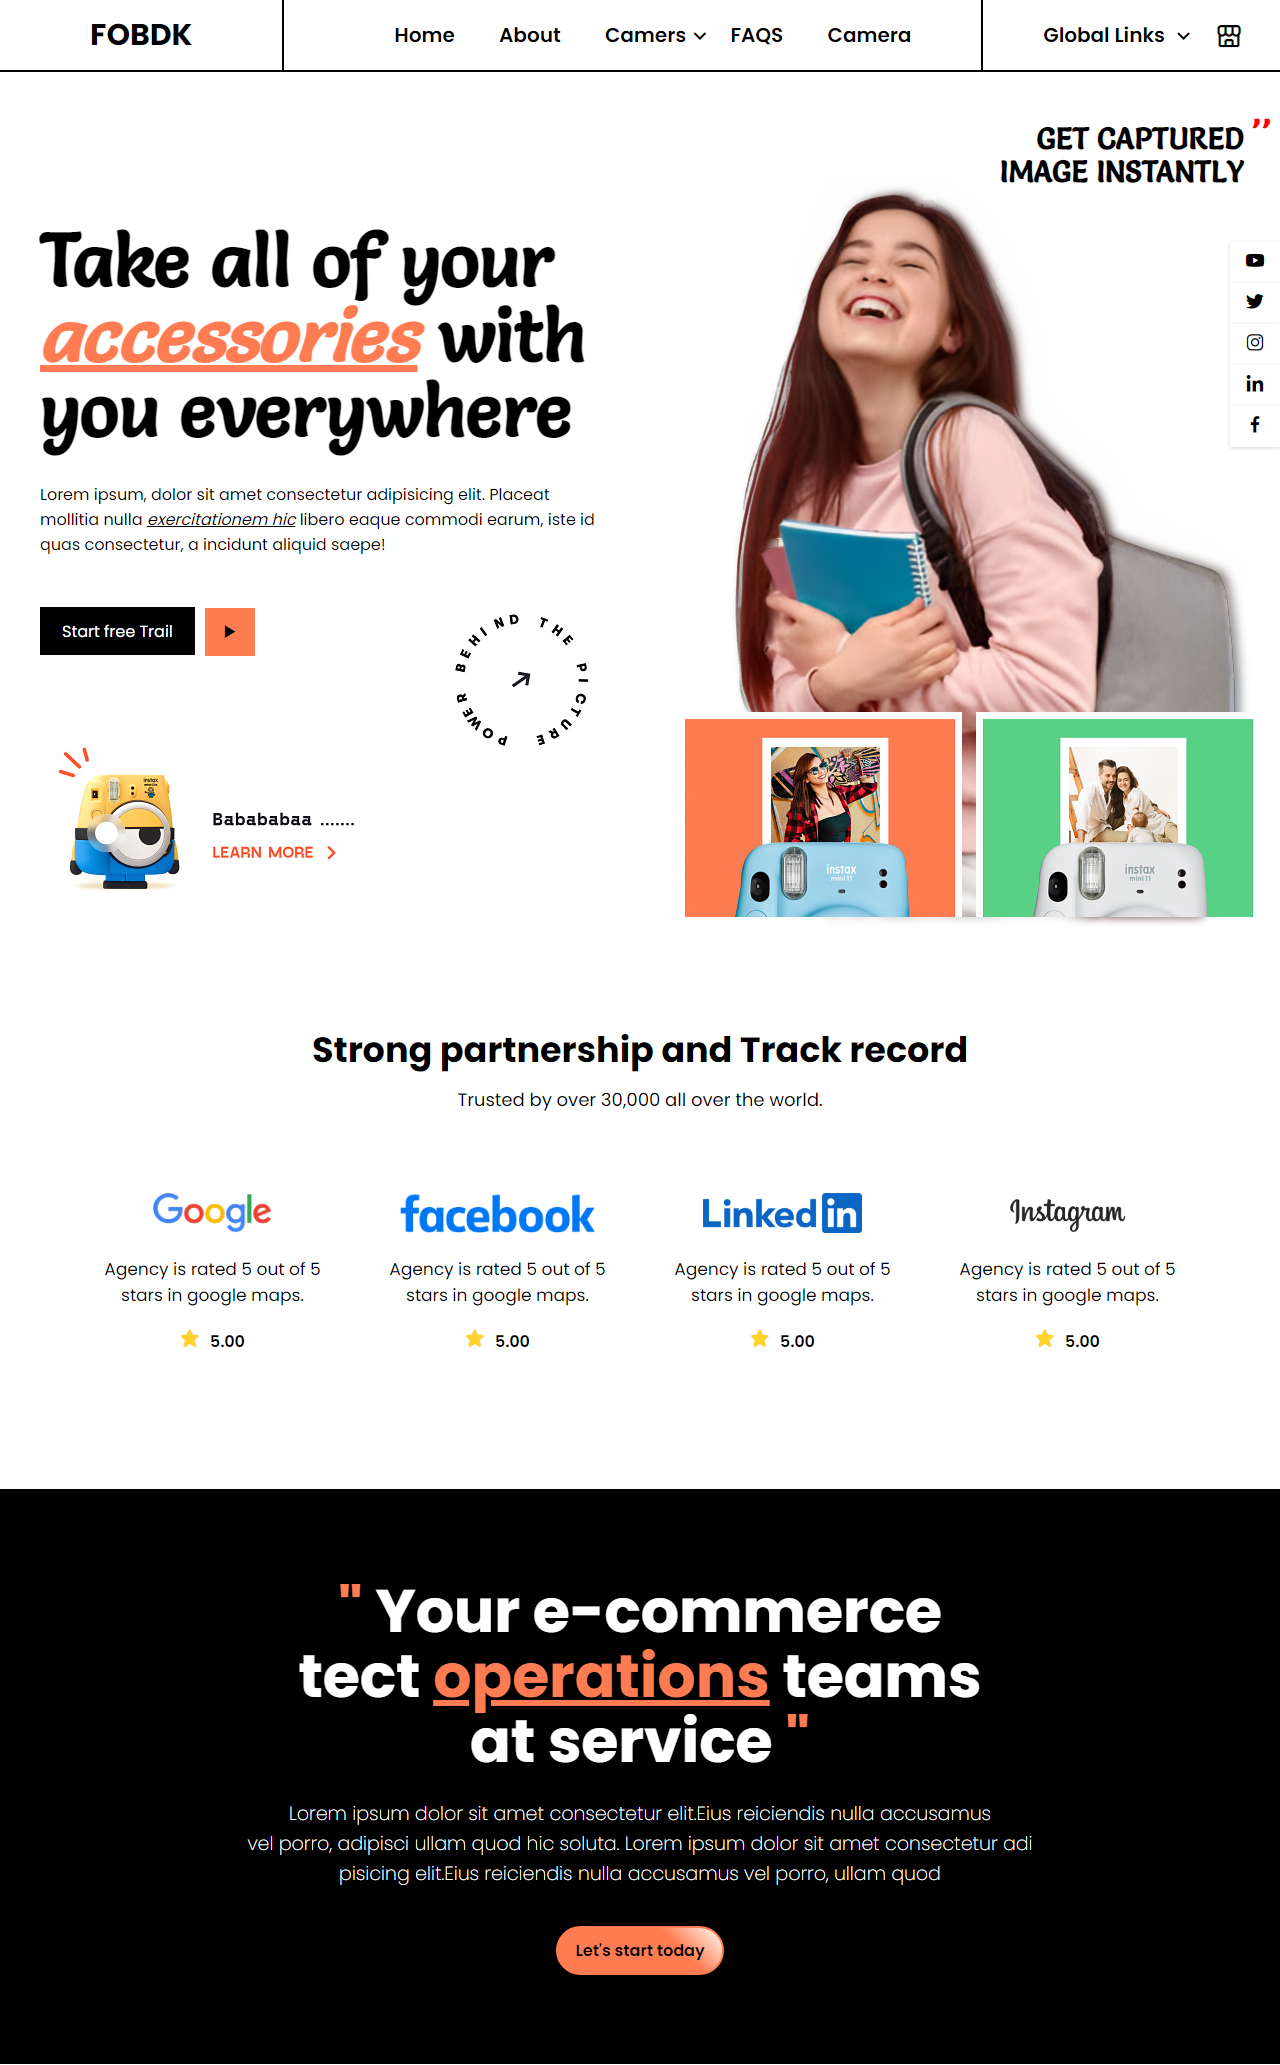
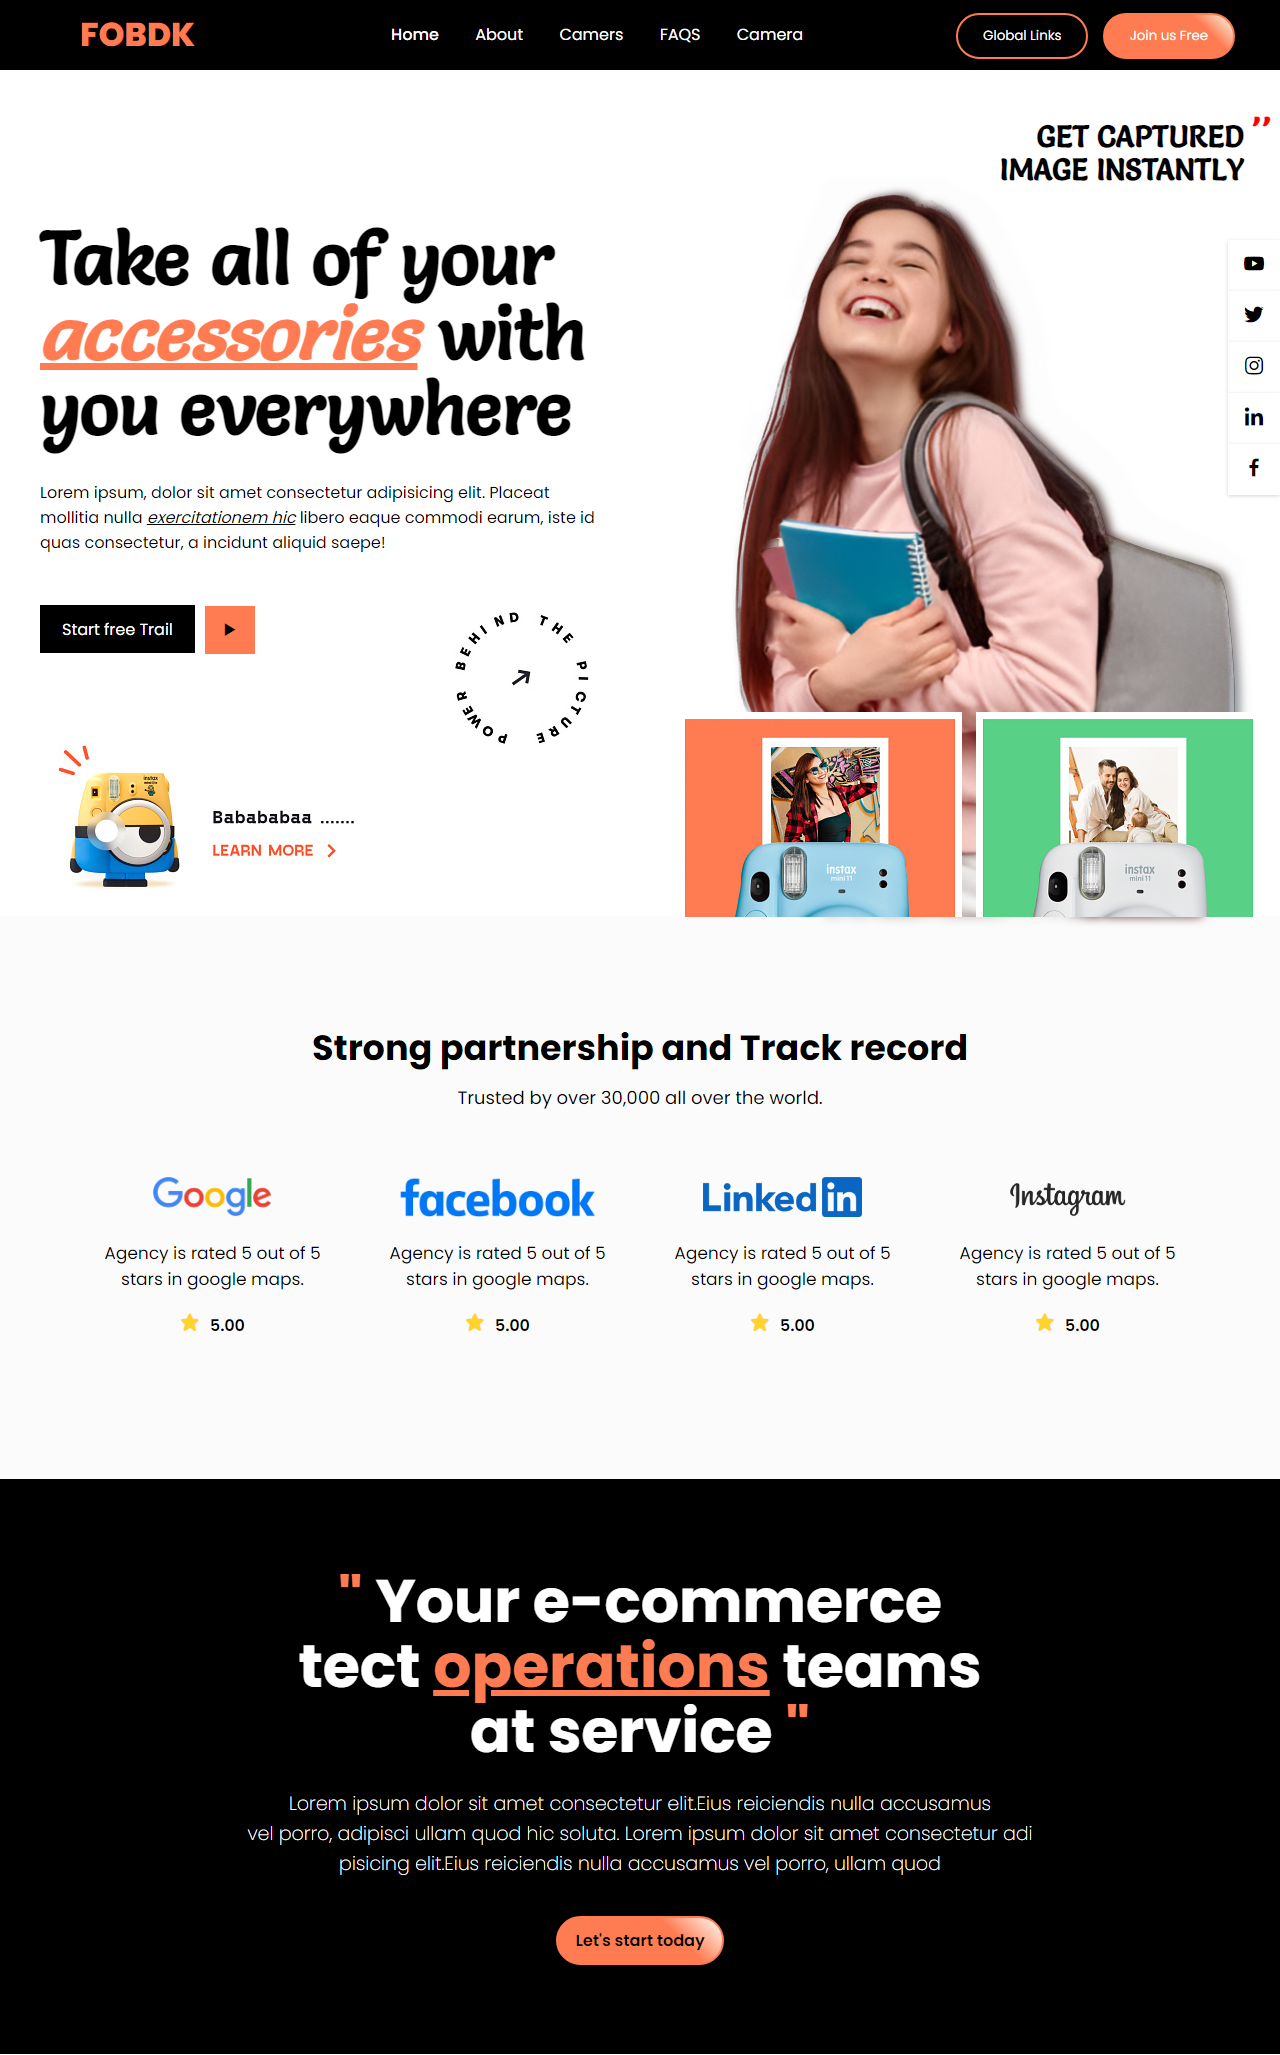
Add files via upload

diff --git a/style.css b/style.css
@@ -12,58 +12,56 @@ header {
     display: flex;
     height: 70px;
     line-height: 70px;
-    border-bottom: 2px solid black;
     justify-content: space-between;
+    background-color: black;
+    padding: 0 40px;
+    z-index: 99;
 }
-header .left {
-    border-right: 2px solid black;
+header label a {
+    font-weight: 800;
+    font-size: 33px;
+    color: #FF7C52;
+    margin-left: 40px;
 }
-header .left label {
-    padding: 0 60px;
-}
-header .left label a {
-    font-size: 35px;
-    font-weight: 700;
-    margin: 0 30px;
-    font-size: 30px;
+header ul{
+    margin: 0 335px;
+    position: absolute;
 }
 header ul li {
     display: inline-block;
-    margin-left: 40px;
+    margin: 0 16px;
 }
 header ul li a {
-    font-size: 20px;
-    font-weight: 600;
+    color: white;
 }
-header ul li a span {
-    position: absolute;
-    line-height: 80px;
+header ul li a:hover {
+    color: #FF7C52;
+    text-decoration: underline;
 }
-header ul li a span i {
-    font-size: 27px;
+header ul li:nth-child(1) a {
+    font-weight: 500;
 }
-header .right {
-    padding: 0 60px;
-    border-left: 2px solid black;
-    margin-right: 30px;
+header .right button {
+    padding: 11px 25px;
+    border-radius: 30px;
+    color: white;
+    cursor: pointer;
+    border: 2px solid #FF7C52;
+    background-color: #FF7C52;
+    background-image: linear-gradient(45deg, #FF7C52 76%, #f6ffeb 100%);
+    margin: 0 5px;
 }
-header .right a {
-    font-weight: 600;
-    font-size: 20px;
-    margin-right: 25px;
+header .right button:nth-child(1){
+    background-color: transparent;
+    background-image: none;
 }
-
-header .right a span i {
-    position: absolute;
-    line-height: 72px;
-    margin-left: 5px;
-    font-size: 27px;
+header .right button:nth-child(1):hover{
+    background-color: #FF7C52;
+    background-image: linear-gradient(45deg, #FF7C52 76%, #f6ffeb 100%);
 }
-header .right span.right_icon i {
-    margin: 0 25px;
-    line-height: 75px;
-    position: absolute;
-    font-size: 28px;
+header .right button:hover{
+    background-color: transparent;
+    background-image: none;
 }
 /* Home */
 .home {
@@ -197,7 +195,6 @@ header .right span.right_icon i {
 }
 .girl_pic_home2 {
     right: 32px;
-    filter: brightness(-67577777777777777777777756547756);
     filter: blur(5px);
 }
 /* Social kit */
@@ -211,10 +208,10 @@ header .right span.right_icon i {
     list-style: none;
     background-color: white;
     box-shadow: rgba(0, 0, 0, 0.16) 0px 1px 4px;
-    padding: 4px 14px;
+    padding: 8px 14px;
 }
 .social_box li a {
-    font-size: 22px;
+    font-size: 24px;
     color: black;
 }
 /* BANNER */
@@ -262,9 +259,8 @@ p.para_text {
 /* Clients */
 .clients {
     text-align: center;
-    padding: 85px 0;
-    margin-top: 20px;
-    background-color: #fff;
+    padding: 105px 0;
+    background-color: #fbfbfb;
 }
 .clients h1 {
     padding-bottom: 10px;
@@ -283,10 +279,9 @@ p.para_text {
     justify-content: space-around;
 }
 .clients .client div {
-    padding: 50px 10px;
+    padding: 36px 10px;
     border-radius: 10px;
     width: 250px;
-    background-color: white;
 }
 .clients .client div p {
     padding-top: 16px;

diff --git a/index.html b/index.html
@@ -9,19 +9,17 @@
 </head>
 <body>
     <header>
-        <div class="left">
-            <label for=""><a href="#">FOBDK</a></label>
-        </div>
+        <label for=""><a href="#">FOBDK</a></label>
         <ul>
             <li><a href="#">Home</a></li>
             <li><a href="#">About</a></li>
-            <li><a href="#">Camers <span><i class='bx bx-chevron-down'></i></span></li>
+            <li><a href="#">Camers</li>
             <li><a href="#">FAQS</a></li>
             <li><a href="#">Camera</a></li>
         </ul>
         <div class="right">
-            <a href="#">Global Links <span><i class='bx bx-chevron-down'></i></span></a>
-            <span class="right_icon"><i class='bx bx-store-alt'></i></span>
+            <button type="button">Global Links</button>
+            <button type="button">Join us Free</button>
         </div>
     </header>
     <div class="social_box">
